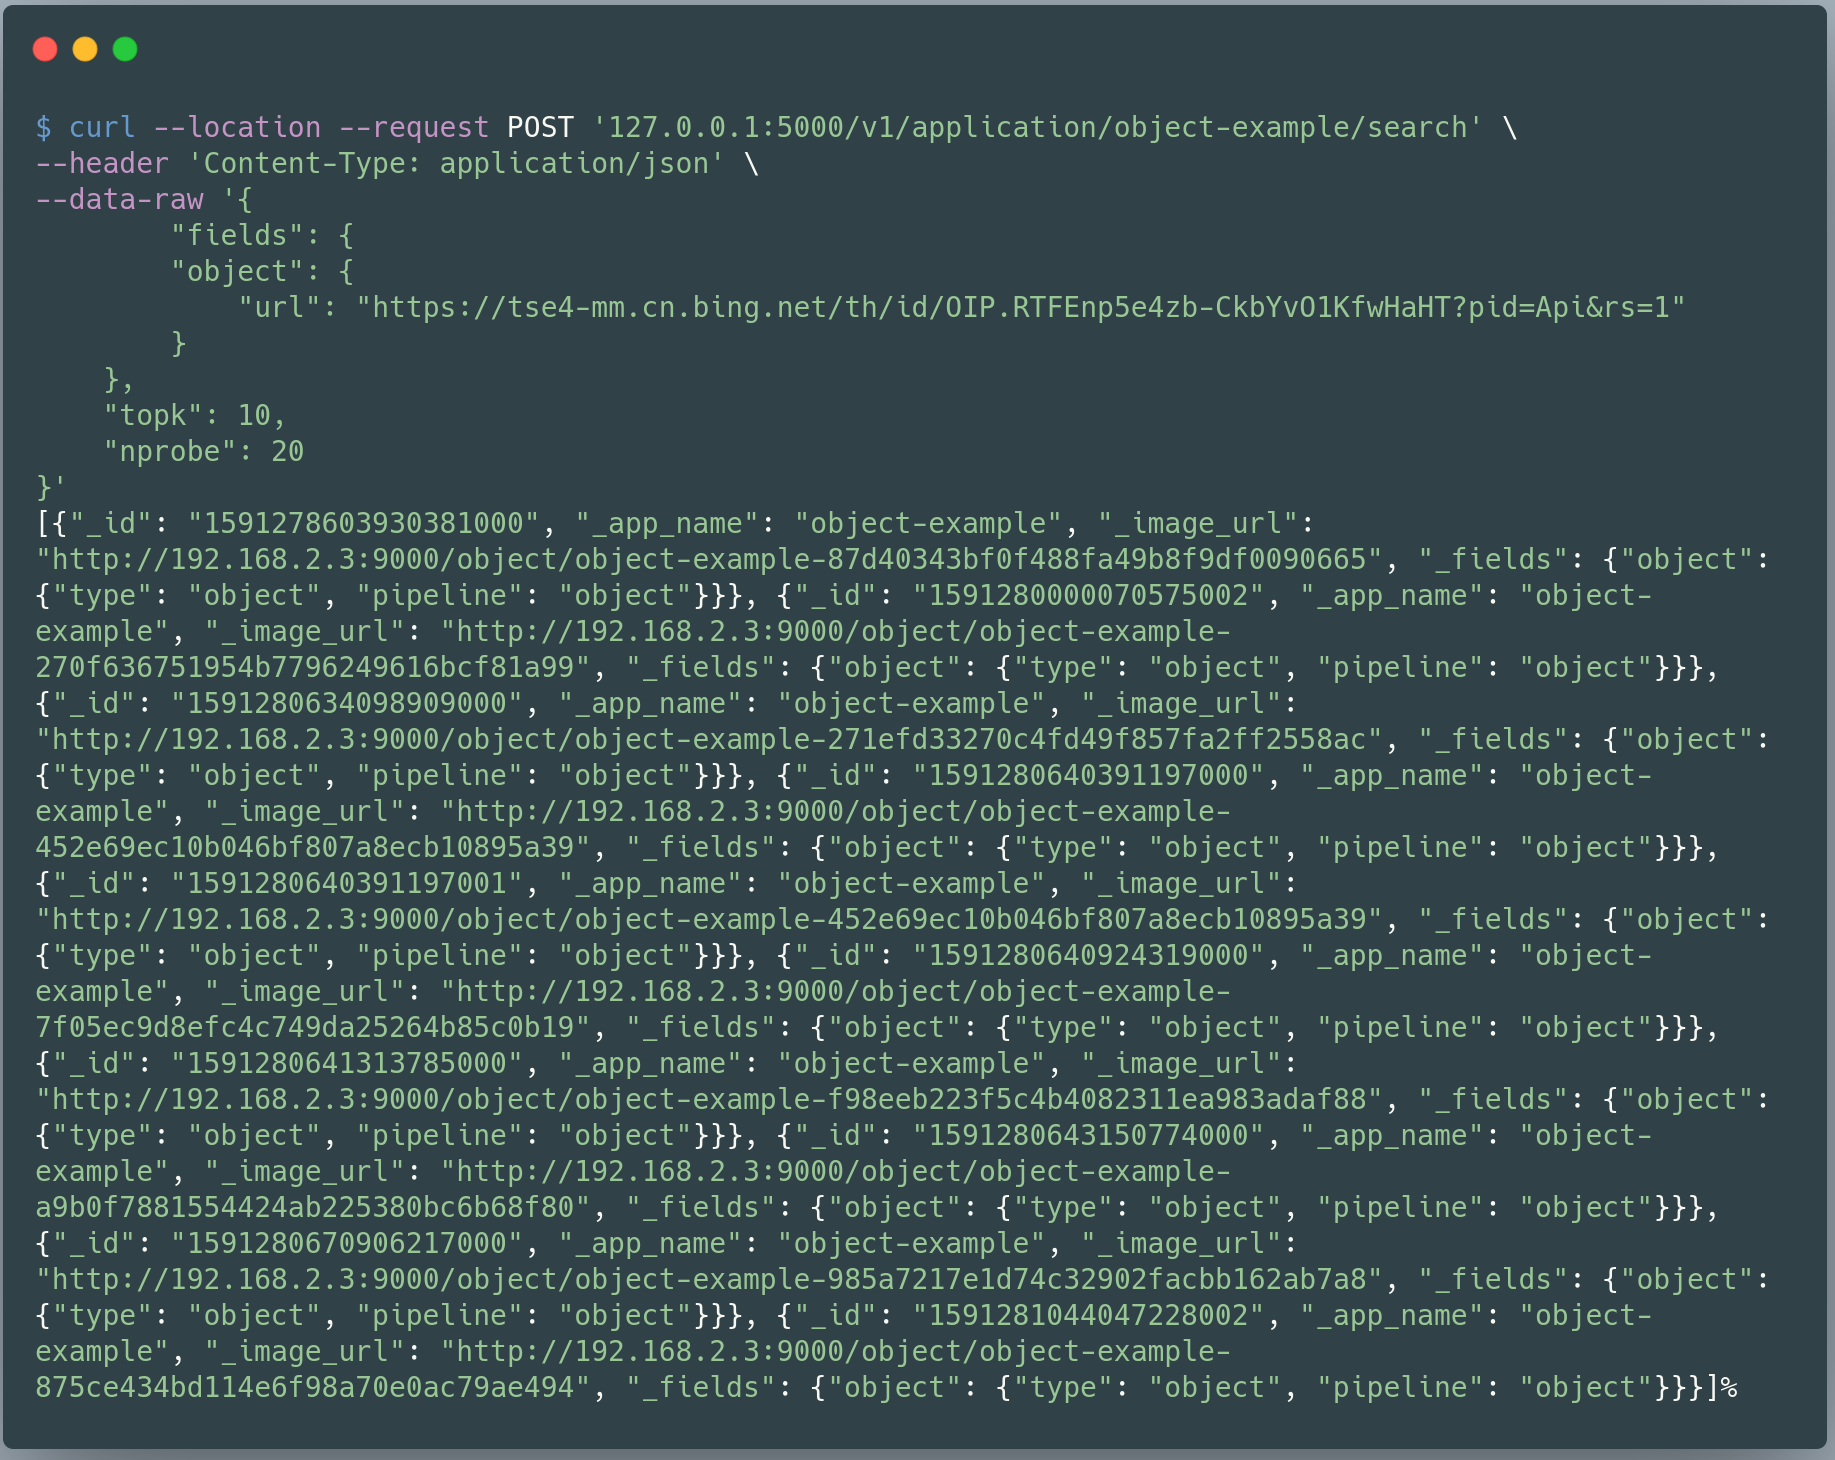
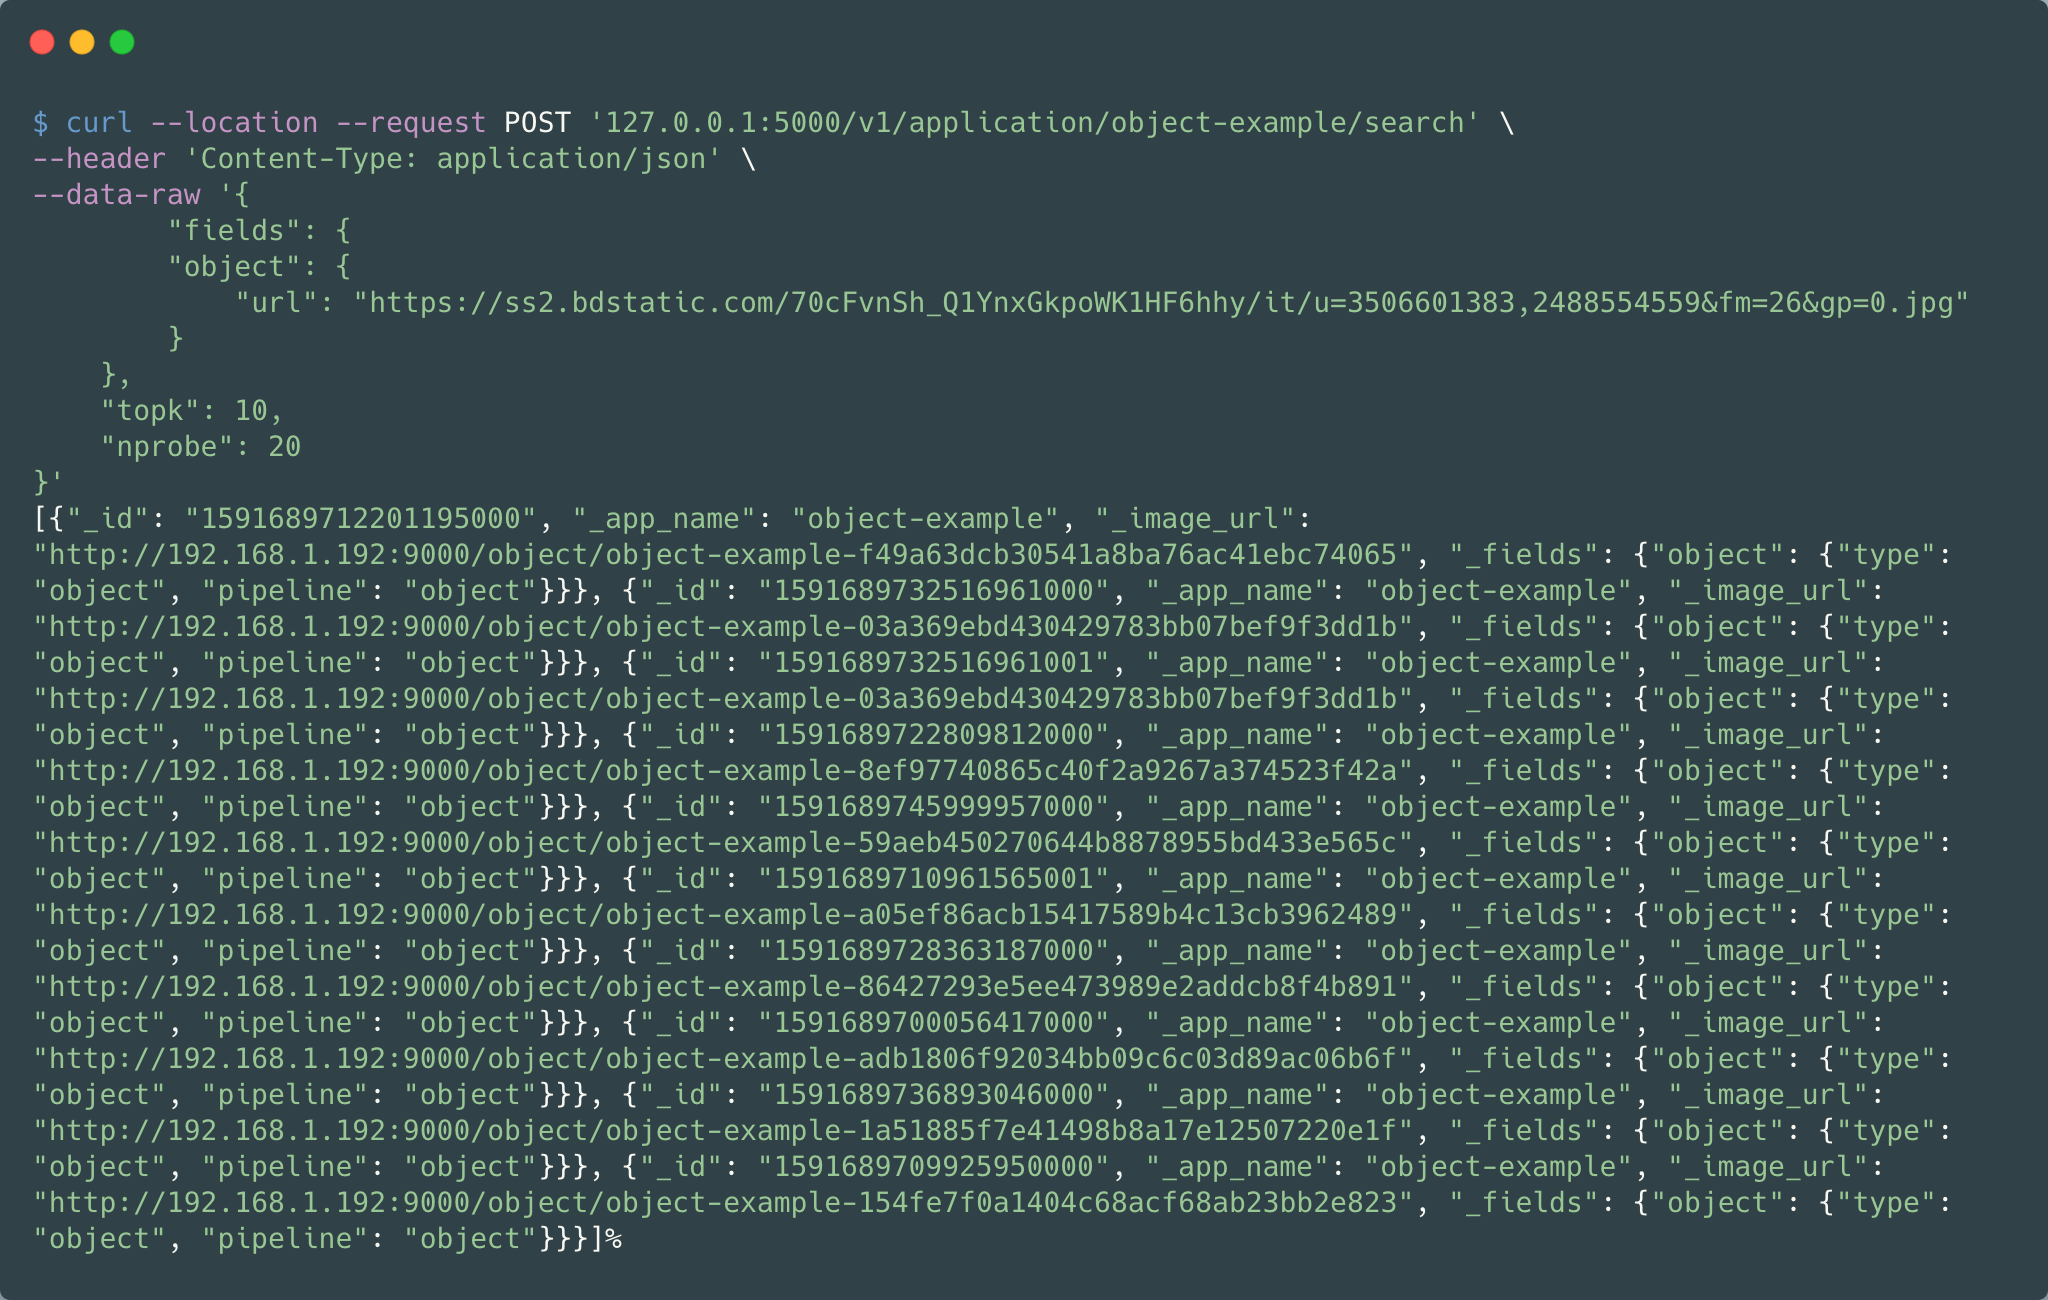
change exmaple docs

Changed region(s): [[0.0, 0.0, 1.0, 1.0]]

diff --git a/docs/site/zh-CN/examples/object.md b/docs/site/zh-CN/examples/object.md
@@ -1,7 +1,10 @@
 # 物体搜索
 
+本篇文章会使用物体识别和物体编码的两个模型搭建一个 Phantoscope Application，该应用能够提取图片中的物体（支持 MSCOCO 数据集的 90 个分类）并对检测出的实体进行相似度搜索。
+
+
 ## 样例场景
-提取图片中的物体（支持 MSCOCO 数据集的 90 个分类）并对所有检测出的实体进行相似度搜索。
+本文着重以 MSCOCO 数据集中支持的几种动物演示该场景的实际功能。
 
 ## 依赖要求
 - 本文档仅在 Ubuntu 系统进行过测试
@@ -9,40 +12,42 @@
 - docker >= 19.03
 - docker-compose >= 1.25.0
 
-##  使用到的模块
+## 使用到的模块
 - **ssd-object-detector**
 - **xception**
 > 可以在 [Phantoscope Operators](https://github.com/zilliztech/phantoscope/blob/master/operators/README.md) 中找到这两个 Operator 的描述。
 
-##  准备数据
-下载包含物体的实验数据。该数据集约1.2G, 耗时取决于网络环境。
+## 准备数据
+下载需要的 MSCOCO 动物图片数据集并解压。该数据集约 174M, 下载耗时取决于网络环境。
 ```bash
-curl http://www.vision.caltech.edu/Image_Datasets/Caltech256/256_ObjectCategories.tar -o /tmp/256-object.tar
+$ curl http://cs231n.stanford.edu/coco-animals.zip -o /tmp/coco-animals.zip
+$ unzip /tmp/coco-animals.zip -d /tmp/
+```
+> 如果想尝试比较大的数据集，可以使用完整的 MSCOCO 图片数据集替换。
+
+## 创建 Phantoscope 应用
+1.使用 ssd-object-detector 与 xception 的镜像创建对应的容器。第一次运行需要从 Dockerhub 拉取镜像，需要等待一段时间。
+```bash
+$ export LOCAL_ADDRESS=$(ip a | grep -Eo 'inet (addr:)?([0-9]*\.){3}[0-9]*' | grep -Eo '([0-9]*\.){3}[0-9]*' | grep -v '127.0.0.1'| head -n 1)
+$ docker run -d -p 50010:50010 -e OP_ENDPOINT=${LOCAL_ADDRESS}:50010 psoperator/ssd-detector:latest
+$ docker run -d -p 50011:50011 -e OP_ENDPOINT=${LOCAL_ADDRESS}:50011 psoperator/xception-encoder:latest
 ```
 
-## 开始 
-1.使用 ssd-object-detector 与 xception 的镜像创建对应的容器。如果是第一次运行需要从 Dockerhub 拉取镜像，需要等待一段时间。
-```bash
-export LOCAL_ADDRESS=$(ip a | grep -Eo 'inet (addr:)?([0-9]*\.){3}[0-9]*' | grep -Eo '([0-9]*\.){3}[0-9]*' | grep -v '127.0.0.1'| head -n 1)
-docker run -d -p 50010:50010 -e OP_ENDPOINT=${LOCAL_ADDRESS}:50010 psoperator/ssd-detector:latest
-docker run -d -p 50011:50011 -e OP_ENDPOINT=${LOCAL_ADDRESS}:50011 psoperator/xception-encoder:latest
-```
-
-通过 ```docker ps``` 命令查看容器的运行状态以确定是否正确启动 Operator 服务，正确的运行结果如下图所示：
+通过 ```docker ps``` 命令查看容器的运行状态,确保 Operator 服务正确启动，正确的运行结果如下图所示：
 ![result1](/.github/example/object-example1.png)
 
-2.将 ssd-object-detector 与 xception 注册到 Phantoscope 中。此过程需要以 Operator 暴露的服务端口和一个自定义的 Operator 名称构造请求。
-关于 Operator 的详细描述请参考 [什么是Operator](https://github.com/zilliztech/phantoscope/blob/master/docs/site/zh-CN/tutorials/operator.md)。
+2.将 ssd-object-detector 与 xception 注册到 Phantoscope 中。
+此过程需要以 Operator 暴露的服务端口和一个自定义的 Operator 名称构造请求。关于 Operator 的详细描述请参考 [什么是 Operator](https://github.com/zilliztech/phantoscope/blob/master/docs/site/zh-CN/tutorials/operator.md)。
 ```bash
 # register ssd-object-detector to phantoscope with exposed 50010 port and a self-defined name 'ssd_detector'
-curl --location --request POST '127.0.0.1:5000/v1/operator/regist' \
+$ curl --location --request POST '127.0.0.1:5000/v1/operator/regist' \
 --header 'Content-Type: application/json' \
 --data-raw '{
     "endpoint": "'${LOCAL_ADDRESS}':50010",
     "name": "ssd_detector"
 }'
 # register xception-encoder to phantoscope with exposed 50011 port and a self-defined name 'xception'
-curl --location --request POST '127.0.0.1:5000/v1/operator/regist' \
+$ curl --location --request POST '127.0.0.1:5000/v1/operator/regist' \
 --header 'Content-Type: application/json' \
 --data-raw '{
     "endpoint": "'${LOCAL_ADDRESS}':50011",
@@ -55,7 +60,7 @@ curl --location --request POST '127.0.0.1:5000/v1/operator/regist' \
 3.创建一条包含 ssd_detector 和 xception 的 Pipeline。关于 Pipeline 的详细描述请参考 [什么是Pipeline](https://github.com/zilliztech/phantoscope/blob/master/docs/site/zh-CN/tutorials/pipeline.md)。
 ```bash
 # create a pipeline with necessary information
-curl --location --request POST '127.0.0.1:5000/v1/pipeline/object' \
+$ curl --location --request POST '127.0.0.1:5000/v1/pipeline/object' \
 --header 'Content-Type: application/json' \
 --data-raw '{
 	"input": "image",
@@ -83,44 +88,43 @@ curl --location --request POST '127.0.0.1:5000/v1/application/object-example' \
     "s3Buckets": "object"
 }'
 ```
-如下图所示，创建成功后会返回 Application 的详细信息：：
+如下图所示，创建成功后会返回 Application 的详细信息：
 ![result4](/.github/example/object-example4.png)
 
 如果一切顺利地运行到这里，一个完整的 Phantoscope 应用就创建完成了，接下来将演示如何使用该应用。
 
-5.在创建完成的 Phantoscope 应用中上传准备好的数据。请先切换到 ```Phantoscope/scripts``` 目录以执行导入命令。
-数据集包含3万多图片，此过程会比较耗时，在CPU环境、并行度为4的实验条件下大约耗时 4083.240s，实际上传时间取决于机器性能。
+## 使用 Phantoscaope 应用 
+
+1.在创建完成的 Phantoscope 应用中上传准备好的数据。请先切换到 ```Phantoscope``` 目录以执行导入命令。我们使用该数据集的训练集进行上传，该训练集包含800张图片，在CPU环境、并行度为4的实验条件下大约耗时 xxxxx s，实际上传时间取决于机器性能及并行配置参数。
 
 ```bash
-tar xvf /tmp/256-object.tar -C /tmp
-python3 load_data.py -d /tmp/256_ObjectCategories -a object-example -p object
+python3 scripts/load_data.py -d /tmp/coco-animals/train -a object-example -p object
 ```
-等待运行结束后，脚本会列出上传过程的结果汇总，以下是一次正确上传的结果汇总图。如果没有在上传的图片中检测出符合的实体，会出现上传失败的报错。
+等待运行结束后，会显示上传过程的结果汇总，以下是一次正确上传的结果图。如果没有在上传的图片中检测出符合的实体，会出现上传失败的报错。
 ![result5](/.github/example/object-example5.png)
 
-> 如果仅仅试用，可以选用自定义的数据集或者只上传一部分图片，可以大幅提高减少等待时间。
+> 如果使用 MSCOCO 的全数据，可参考上述命令修改上传目录即可。
 
-6.步骤5图片上传结束后，我们就可以开始使用该 Phantoscope 应用进行搜索啦。
+2.图片上传结束后，我们就可以开始使用 Phantoscope 应用进行搜索啦。
 ```bash
-curl --location --request POST '127.0.0.1:5000/v1/application/object-example/search' \
+$ curl --location --request POST '127.0.0.1:5000/v1/application/object-example/search' \
 --header 'Content-Type: application/json' \
 --data-raw '{
 	"fields": {
         "object": {
-            "url": "https://tse4-mm.cn.bing.net/th/id/OIP.RTFEnp5e4zb-CkbYvO1KfwHaHT?pid=Api&rs=1"
+            "url": "https://ss2.bdstatic.com/70cFvnSh_Q1YnxGkpoWK1HF6hhy/it/u=3506601383,2488554559&fm=26&gp=0.jpg"
         }
     },
     "topk": 10,
     "nprobe": 20
 }'
 ```
-运行上述命令通过 RESTful API 进行搜索，如下图所示，运行该命令返回了10条搜索结果。
+运行上述命令即可通过 RESTful API 进行搜索，正确的结果如下图所示：
 
 ![result6](/.github/example/object-example6.png)
 
-RESTful API 的结果展示并不直观，可以使用[Phantoscope Preview](https://github.com/zilliztech/phantoscope/blob/master/docs/site/zh-CN/tutorials/preview.md)接入 Phantoscope 进行搜索。
-下图是演示的结果图：
+3.也许你会觉得 RESTful API 的结果展示并不直观。使用[Phantoscope Preview](https://github.com/zilliztech/phantoscope/blob/master/docs/site/zh-CN/tutorials/preview.md)接入 Phantoscope 可以更直观地进行搜索。使用 Preview 的演示效果如下图所示：
 
-![result7](/.github/example/object-example7.png)
+![result7](/.github/example/object-example7.gif)
 
 

diff --git a/docs/site/zh-CN/quickstart/README.md b/docs/site/zh-CN/quickstart/README.md
@@ -31,7 +31,7 @@ $ curl http://www.vision.caltech.edu/Image_Datasets/Caltech256/256_ObjectCategor
 ## 上传图片数据
 ```bash
 $ tar xvf /tmp/vgg-example.tar -C /tmp
-$ python3 load_data.py -s 127.0.0.1:5000 -a example -p example -d /tmp/256_ObjectCategories
+$ python3 scripts/load_data.py -s 127.0.0.1:5000 -a example -p example -d /tmp/256_ObjectCategories
 ```
 上传图片根据机器性能不同,时间会有差异
 ## 使用 Preview 进行搜索

diff --git a/docs/site/zh-CN/examples/README.md b/docs/site/zh-CN/examples/README.md
@@ -4,6 +4,5 @@
 
 在阅读下列文档时，请保证您的 Phantoscope 已经安装
 
-- [识别图片中的脸部信息并进行搜索](./face.md)
 - [识别图片中的物体信息并进行搜索](./object.md)
 
